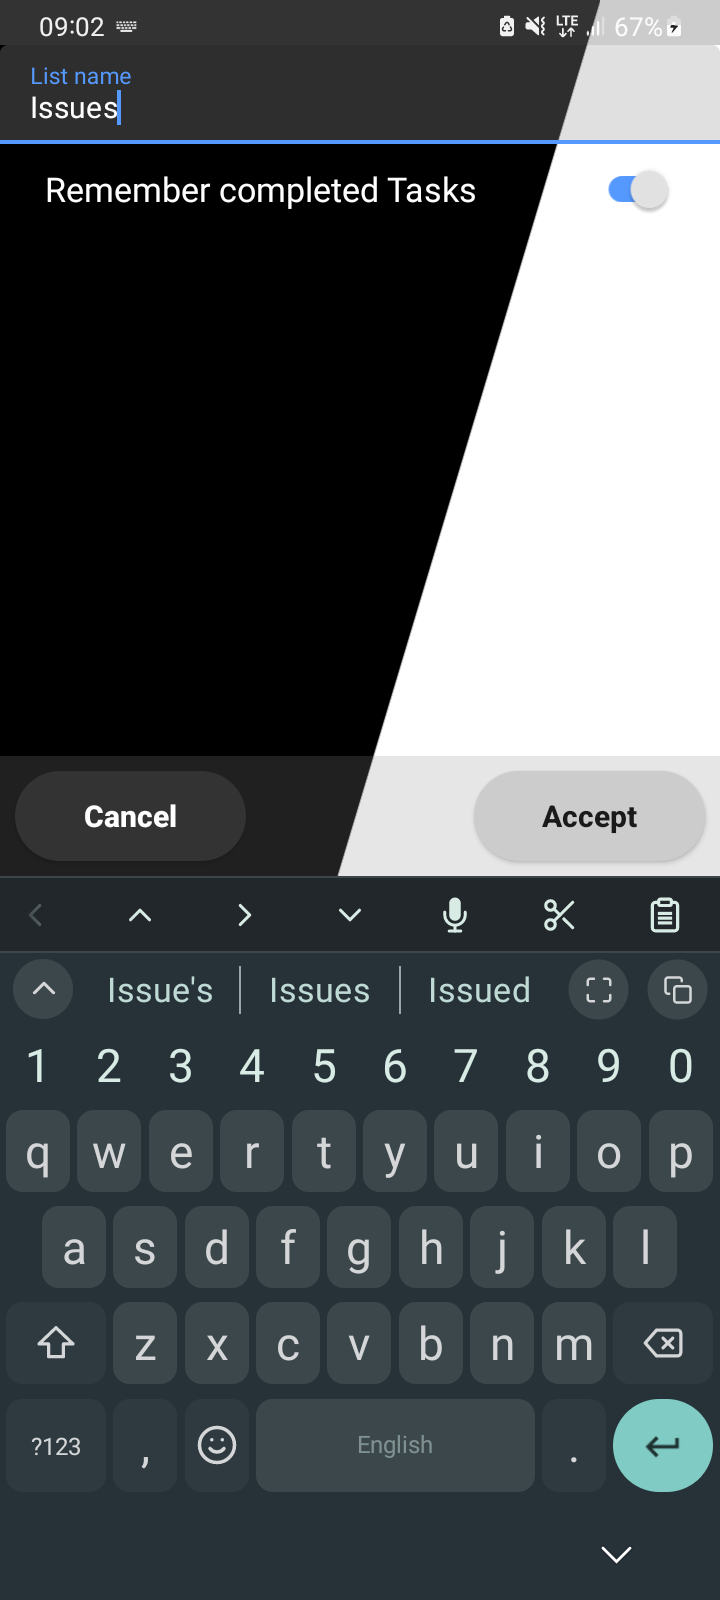
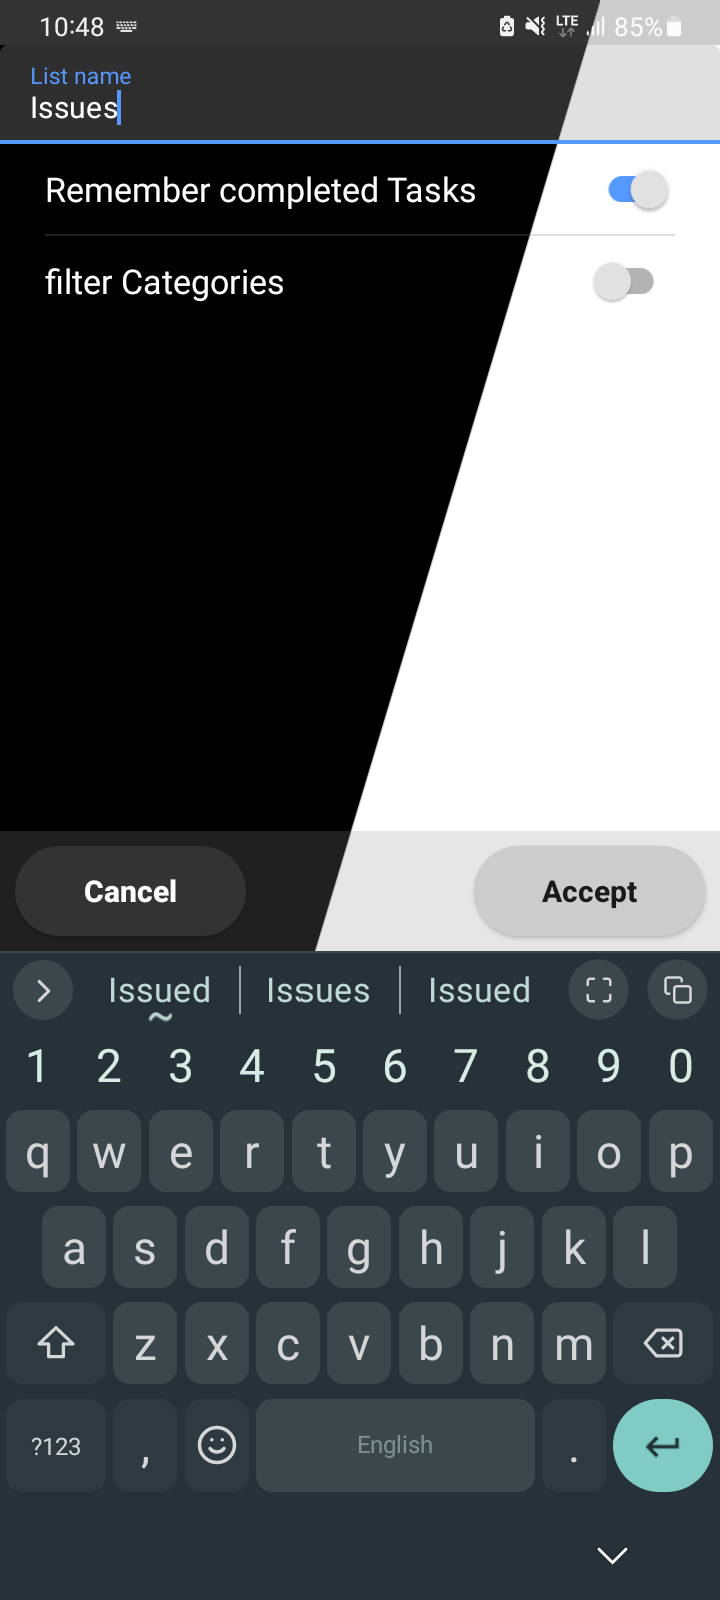
add capability to filter available categories per list

diff --git a/app/src/main/java/kryptonbutterfly/checklist/EditListActivity.kt b/app/src/main/java/kryptonbutterfly/checklist/EditListActivity.kt
@@ -3,20 +3,36 @@ package kryptonbutterfly.checklist
 import android.os.Bundle
 import android.util.Log
 import android.view.View
+import android.view.View.GONE
+import android.view.View.VISIBLE
+import android.view.ViewGroup
 import android.widget.Button
+import android.widget.CheckBox
+import android.widget.ImageView
+import android.widget.LinearLayout
+import android.widget.TextView
 import androidx.activity.ComponentActivity
 import androidx.appcompat.widget.SwitchCompat
+import androidx.constraintlayout.widget.ConstraintLayout
+import androidx.core.view.children
 import androidx.core.widget.doAfterTextChanged
 import com.google.android.material.textfield.TextInputEditText
 import kryptonbutterfly.checklist.Constants.LIST_NAME
+import kryptonbutterfly.checklist.persistence.Category
 import kryptonbutterfly.checklist.persistence.CheckList
+import kryptonbutterfly.checklist.persistence.cache
 import kryptonbutterfly.checklist.persistence.data
+import java.util.Objects
+import java.util.stream.Collectors
+import kotlin.streams.asStream
 
 class EditListActivity : ComponentActivity() {
+	private var editTarget: String? = null
 	private lateinit var listNameInput: TextInputEditText
 	private lateinit var buttonEditListAccept: Button
-	private var editTarget: String? = null
 	private lateinit var trackDoneSwitch: SwitchCompat
+	private lateinit var filterCategories: SwitchCompat
+	private lateinit var categoriesFilterList: LinearLayout
 	
 	override fun onCreate(savedInstanceState: Bundle?) {
 		super.onCreate(savedInstanceState)
@@ -26,17 +42,50 @@ class EditListActivity : ComponentActivity() {
 		listNameInput = findViewById(R.id.listName)
 		
 		trackDoneSwitch = findViewById(R.id.trackDoneSwitch)
+		filterCategories = findViewById(R.id.filterCategoriesSwitch)
+		categoriesFilterList = findViewById(R.id.categoriesFilterList)
 		
 		listNameInput.doAfterTextChanged { buttonEditListAccept.isEnabled = isValidName() }
 		
+		val data = data(this)
 		if (intent.hasExtra(LIST_NAME)) {
 			val listName = intent.getStringExtra(LIST_NAME)
 			editTarget = listName
 			listNameInput.setText(listName)
-			data(this).lists[listName]?.markDone?.also { trackDoneSwitch.isChecked = it }
+			val list = data.lists[listName]
+			list?.also { list ->
+				list.markDone.also { trackDoneSwitch.isChecked = it }
+				val filter = list.visCategories != null
+				filterCategories.isChecked = filter
+				updateCategoriesFilterVis()
+			}
+			createCategories(categoriesFilterList, data.categories.values, list?.visCategories)
 		}
+		else
+			createCategories(categoriesFilterList, data.categories.values, null)
 	}
 	
+	private fun createCategories(parent: ViewGroup, categories: Collection<Category>, vis: HashSet<Long>?) {
+		for (category in categories)
+			createCategory(parent, category, vis?.contains(category.id)?:false)
+	}
+	
+	private fun createCategory(parent: ViewGroup, cat: Category, vis: Boolean) {
+		val category = this.layoutInflater.inflate(R.layout.category_filter_item, parent, false)
+		category.tag = cat.id
+		
+		val icon = category.findViewById<ImageView>(R.id.catFilterIcon)
+		cat.icon?.let { cache(this).iconMap[it] }?.
+			also(icon::setImageBitmap)
+		
+		val text = category.findViewById<TextView>(R.id.catFilterTitle)
+		text.text = cat.name
+		
+		val check = category.findViewById<CheckBox>(R.id.checkFilterCategory)
+		check.isChecked = vis
+		parent.addView(category)
+		Log.d("CATEGORY_FILTER", "text: ${text.text}, icon: ${cat.icon}, vis: $vis")
+	}
 	private fun isValidName(): Boolean {
 		val listName = listNameInput.text.toString()
 		val data = data(this)
@@ -51,12 +100,26 @@ class EditListActivity : ComponentActivity() {
 		val markDone = trackDoneSwitch.isChecked
 		data.currentList = listName
 		
+		val filters = collectVisible()
+		
 		editTarget?.let {
 			data.lists.remove(it)
 		}?.also { list ->
 				list.markDone = markDone
 				data.lists[listName] = list
-			}?:also { data.lists.put(listName, CheckList(markDone = markDone)) }
+				list.visCategories = filters
+			}?:also { data.lists.put(listName, CheckList(markDone = markDone, visCategories = filters)) }
+	}
+	
+	private fun collectVisible() :HashSet<Long>? {
+		if (!filterCategories.isChecked)
+			return null
+		return categoriesFilterList.children.asStream()
+			.map { it as? ConstraintLayout }
+			.filter { it?.findViewById<CheckBox>(R.id.checkFilterCategory)?.isChecked?:false }
+			.map { it?.tag as? Long }
+			.filter(Objects::nonNull)
+			.collect(Collectors.toCollection(::HashSet))
 	}
 	
 	fun onApply(@Suppress("UNUSED_PARAMETER") view: View) {
@@ -71,5 +134,13 @@ class EditListActivity : ComponentActivity() {
 		Log.i("CREATE_LIST", "Cancel")
 		setResult(RESULT_CANCELED)
 		finish()
+	}
+	
+	fun onToggleFilterCategories(@Suppress("UNUSED_PARAMETER") view: View) {
+		updateCategoriesFilterVis()
+	}
+	
+	private fun updateCategoriesFilterVis() {
+		categoriesFilterList.visibility = if (filterCategories.isChecked) VISIBLE else GONE
 	}
 }

diff --git a/app/src/main/java/kryptonbutterfly/checklist/CreateTaskActivity.kt b/app/src/main/java/kryptonbutterfly/checklist/CreateTaskActivity.kt
@@ -55,15 +55,21 @@ class CreateTaskActivity : ComponentActivity() {
         items.add(SpinnerIconItem(null, "", UNCATEGORIZED))
         val data = data(this)
         val cache = cache(this)
+        val currList = data.currentList()
         
         var categoryIndex = 0
-        data.categories.values.forEachIndexed { i, cat ->
-            addCategory(cache, cat)
-            if (cat.id == categoryId)
-                categoryIndex = i + 1
-        }
+        
+        var counter = 0
+        for (cat in data.categories.values)
+            if (cat.id == categoryId || currList.visCategories?.contains(cat.id)?:true) {
+                counter++
+                addCategory(cache, cat)
+                if (cat.id == categoryId)
+                    categoryIndex = counter
+            }
         
         val spinner = findViewById<Spinner>(R.id.spinnerCategories)
+        
         spinner.adapter = SpinnerIconAdapter(this, items)
         spinner.setSelection(categoryIndex)
     }

diff --git a/app/src/main/java/kryptonbutterfly/checklist/persistence/CheckList.kt b/app/src/main/java/kryptonbutterfly/checklist/persistence/CheckList.kt
@@ -15,7 +15,8 @@ data class CheckList(
 	@Expose val tasks: HashMap<Long, ArrayList<String>> = HashMap(),
 	@Expose val done: HashMap<Long, ArrayList<String>> = HashMap(),
 	@Expose var history: LinkedList<Action<*>> = LinkedList(),
-	@Expose var markDone: Boolean = false
+	@Expose var markDone: Boolean = false,
+	@Expose var visCategories: HashSet<Long>? = null
 ) : Serializable {
 	fun addTask(categoryId: Long, descriptor: String, index: Int) {
 		val categoryTasks = tasks[categoryId]
@@ -71,6 +72,4 @@ data class CheckList(
 			}
 		}
 	}
-	
-	fun isEmpty(): Boolean = tasks.values.firstOrNull { !it.isEmpty() } == null
 }

diff --git a/README.md b/README.md
@@ -15,4 +15,4 @@ A primitive checklist app.
 </div>
 
 ## Download
-[CheckList.apk](https://github.com/kryptonbutterfly/CheckList/releases/download/v4.2.1/CheckList.apk)
+[CheckList.apk](https://github.com/kryptonbutterfly/CheckList/releases/download/v4.3.0/CheckList.apk)